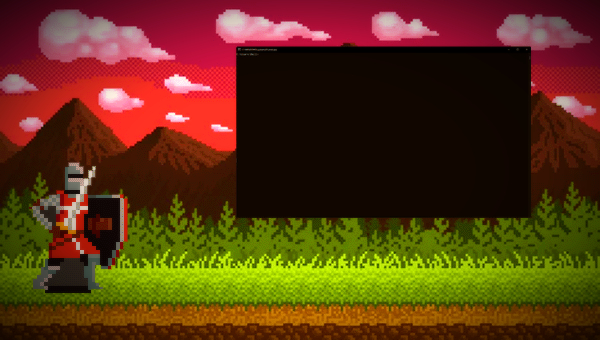
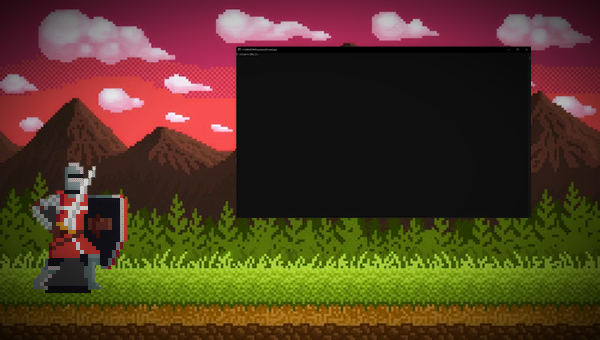
definindo dimensão da descrição da Dev Trainer.

diff --git a/index.html b/index.html
@@ -33,7 +33,7 @@
                 <!-- DIV DOS BOTÕES -->
                 <div class="collapse navbar-collapse justify-content-end divbtns" id="navbarNavAltMarkup">
                     <div class="navbar-nav">
-                        <button onclick="pagina.html()" type="button" class="btn btn-sm btnnossoscursos botoesnav">
+                        <button type="button" class="btn btn-sm btnnossoscursos botoesnav">
                             Nossos Cursos
                         </button>
                         <button type="button" class="btn btn-sm btnnossaequipe botoesnav">
@@ -55,22 +55,61 @@
         <div class="containermain">
             <div class="descricaodevtrainer">
                 <h1 class="titulodescricao">Dev Trainer</h1>
-                <p class="descricao">Seja bem-vindo a Dev Trainer, sua plataforma de cursos online para desenvolvedores que estão
-                    procurando uma forma rápida, divertida e organizada de aprender linguagens de programação.</p>
-                <p>Quer saber mais?</p>
+                <p class="descricao"><strong>Seja bem-vindo a Dev Trainer, sua plataforma de cursos online para desenvolvedores
+                    que estão
+                    procurando uma forma rápida, divertida e organizada de aprender linguagens de programação.</strong></p>
+                <p><strong> Quer saber mais?</strong></p>
                 <button type="button" class="btn btn-primary btn-lg btnconfiranossosplanos ">
                     Confira nossos planos!
                 </button>
             </div>
         </div>
         <br>
-        <!-- <section class="section1">
-            <h1>CARROSEL</h1>
+        <br>
+        <section class="section1">
+            <div id="carouselExampleCaptions" class="carousel slide" data-bs-ride="carousel">
+                <div class="carousel-indicators">
+                  <button type="button" data-bs-target="#carouselExampleCaptions" data-bs-slide-to="0" class="active" aria-current="true" aria-label="Slide 1"></button>
+                  <button type="button" data-bs-target="#carouselExampleCaptions" data-bs-slide-to="1" aria-label="Slide 2"></button>
+                  <button type="button" data-bs-target="#carouselExampleCaptions" data-bs-slide-to="2" aria-label="Slide 3"></button>
+                </div>
+                <div class="carousel-inner">
+                  <div class="carousel-item active">
+                    <img src="..." class="d-block w-100" alt="...">
+                    <div class="carousel-caption d-none d-md-block">
+                      <h5>First slide label</h5>
+                      <p>Some representative placeholder content for the first slide.</p>
+                    </div>
+                  </div>
+                  <div class="carousel-item">
+                    <img src="..." class="d-block w-100" alt="...">
+                    <div class="carousel-caption d-none d-md-block">
+                      <h5>Second slide label</h5>
+                      <p>Some representative placeholder content for the second slide.</p>
+                    </div>
+                  </div>
+                  <div class="carousel-item">
+                    <img src="..." class="d-block w-100" alt="...">
+                    <div class="carousel-caption d-none d-md-block">
+                      <h5>Third slide label</h5>
+                      <p>Some representative placeholder content for the third slide.</p>
+                    </div>
+                  </div>
+                </div>
+                <button class="carousel-control-prev" type="button" data-bs-target="#carouselExampleCaptions" data-bs-slide="prev">
+                  <span class="carousel-control-prev-icon" aria-hidden="true"></span>
+                  <span class="visually-hidden">Previous</span>
+                </button>
+                <button class="carousel-control-next" type="button" data-bs-target="#carouselExampleCaptions" data-bs-slide="next">
+                  <span class="carousel-control-next-icon" aria-hidden="true"></span>
+                  <span class="visually-hidden">Next</span>
+                </button>
+              </div>
         </section>
         <br>
         <section class="section2">
             <h1>VALORES DA EMPRESA</h1>
-        </section> -->
+        </section>
     </main>
 
     <!-- SCRIPTS DA INDEX (BOOTSTRAP E JAVASCRIPT) -->

diff --git a/views/assets/css/index.css b/views/assets/css/index.css
@@ -1,10 +1,15 @@
 /* FONTES IMPORTADAS */
 @import url('https://fonts.googleapis.com/css2?family=Black+Han+Sans&display=swap');
 
-/* ZERANDO TODO O MARGIN E PADDING */
-*{
+/* ZERANDO TODO O MARGIN E PADDING DO ESQUELETO */
+* {
     margin: 0%;
     padding: 0%;
+}
+
+/* ESQUELETO DO HTML */
+body {
+    background-color: #000000;
 }
 
 /* PALETA DE CORES DA DEV TRAINER
@@ -15,8 +20,10 @@
 
 /* FONTES IMPORTADAS */
 @import url("https://fonts.googleapis.com/css2?family=Press+Start+2P&display=swap");
+@import url('https://fonts.googleapis.com/css2?family=Koulen&display=swap');
+@import url('https://fonts.googleapis.com/css2?family=Anton&display=swap');
 
-main{
+main {
     height: 100vh;
     background-image: url(./cavalheiro_header.jpg);
     background-repeat: no-repeat;
@@ -25,52 +32,52 @@ main{
 
 /* CONTAINER DA MAIN */
 .containermain {
-    display: flex;
     height: 100vh;
     color: #ffffff;
+    display: flex;
+    flex-direction: row;
+    justify-content: center;
+    align-items: center;
+    font-family: 'Anton', sans-serif;
 }
+
 /* TITULO DA DESCRICAO PARA O USUARIO */
-.titulodescricao{
+.titulodescricao {
     font-family: 'Black Han Sans', sans-serif;
     color: #ffffff;
 }
+
 /* DEV TRAINER E A DESCRIÇÃO DO QUE ELA REPRESENTA. */
 .descricaodevtrainer {
-    font-family: 'Black Han Sans', sans-serif;
-    display: flex;
-    flex-direction: column;
-    justify-content: center;
-    align-items: center;
-    text-align: center;
-}
-
-.descricao{
     width: 40%;
+    text-align: center;
+    /* margin-left: 60vh;
+    margin-top: -5vh; */
+    margin-left: 27%;
+    margin-top: -3%;
 }
 
 /*BOTÃO NA DESCRIÇÃO PARA DIRECIONAR A PÁGINA DE PLANOS E DEPOIS DO CADASTRO*/
 .btnconfiranossosplanos {
     color: black;
     font-family: "Press Start 2P", cursive;
-    font-size: 80%;
+    font-size: 100%;
     background-color: #57C1E4;
 }
 
 /* HOVER DO BOTÃO "CONFIRA NOSSOS PLANOS!" */
 .btnconfiranossosplanos:hover {
-    font-size: 80%;
     background-color: #57C1E4;
 }
 
-.section1{
+.section1 {
     height: 50vh;
     background-color: #ff0000;
     color: white;
 }
 
-.section2{
+.section2 {
     height: 50vh;
     background-color: green;
     color: white;
 }
-

diff --git a/views/assets/css/header.css b/views/assets/css/header.css
@@ -6,19 +6,18 @@
 
 /* FONTES IMPORTADAS */
 @import url("https://fonts.googleapis.com/css2?family=Press+Start+2P&display=swap");
-body{
-    background-color: #00000079;
-}
+@import url('https://fonts.googleapis.com/css2?family=Koulen&display=swap');
 /* HEADER E BOTOES DE NAVEGAÇÃO */
-header{
-    background-color: #000000a4;
+header {
+    background-color: #000000f1;
 }
 
-nav{
+nav {
     height: 15%;
 }
+
 /* LOGO E TITULO DA DEVTRAINER */
-.logoetitulo{
+.logoetitulo {
     display: flex;
     flex-direction: row;
     justify-content: flex-start;
@@ -45,27 +44,31 @@ nav{
 
 /* CLASSE DO BOTÃO "NOSSOS CURSOS" */
 .btnnossoscursos {
-    font-size: 60%;
+    font-size: 65%;
     color: #ffffff;
+    text-shadow: 0.1em 0.1em 0.1em 0.1em black;
 }
 
 /* CLASSE DO BOTÃO "NOSSA EQUIPE" */
 .btnnossaequipe {
-    font-size: 60%;
+    font-size: 65%;
     color: #ffffff;
+    text-shadow: 0.1em 0.1em 0.1em 0.1em black;
 }
 
 /* CLASSE DO BOTÃO "JÁ TENHO CONTA" */
 .btnjatenhoconta {
-    font-size: 60%;
+    font-size: 65%;
     color: #ffffff;
+    text-shadow: 0.1em 0.1em 0.1em 0.1em black;
 }
 
 /* CLASSE DO BOTÃO "ASSINAR AGORA!" */
-.btnassinaragora{
+.btnassinaragora {
     color: black;
-    font-size: 80%;
+    font-size: 90%;
     background-color: #57C1E4;
+    text-shadow: 0.1em 0.1em 0.1em 0.1em black;
 }
 
 /* HOVER DO BOTÃO DOS NOSSOS CURSOS */
@@ -89,4 +92,3 @@ nav{
     background-color: #7CF182;
     border: 0.1em solid black;
 }
-
